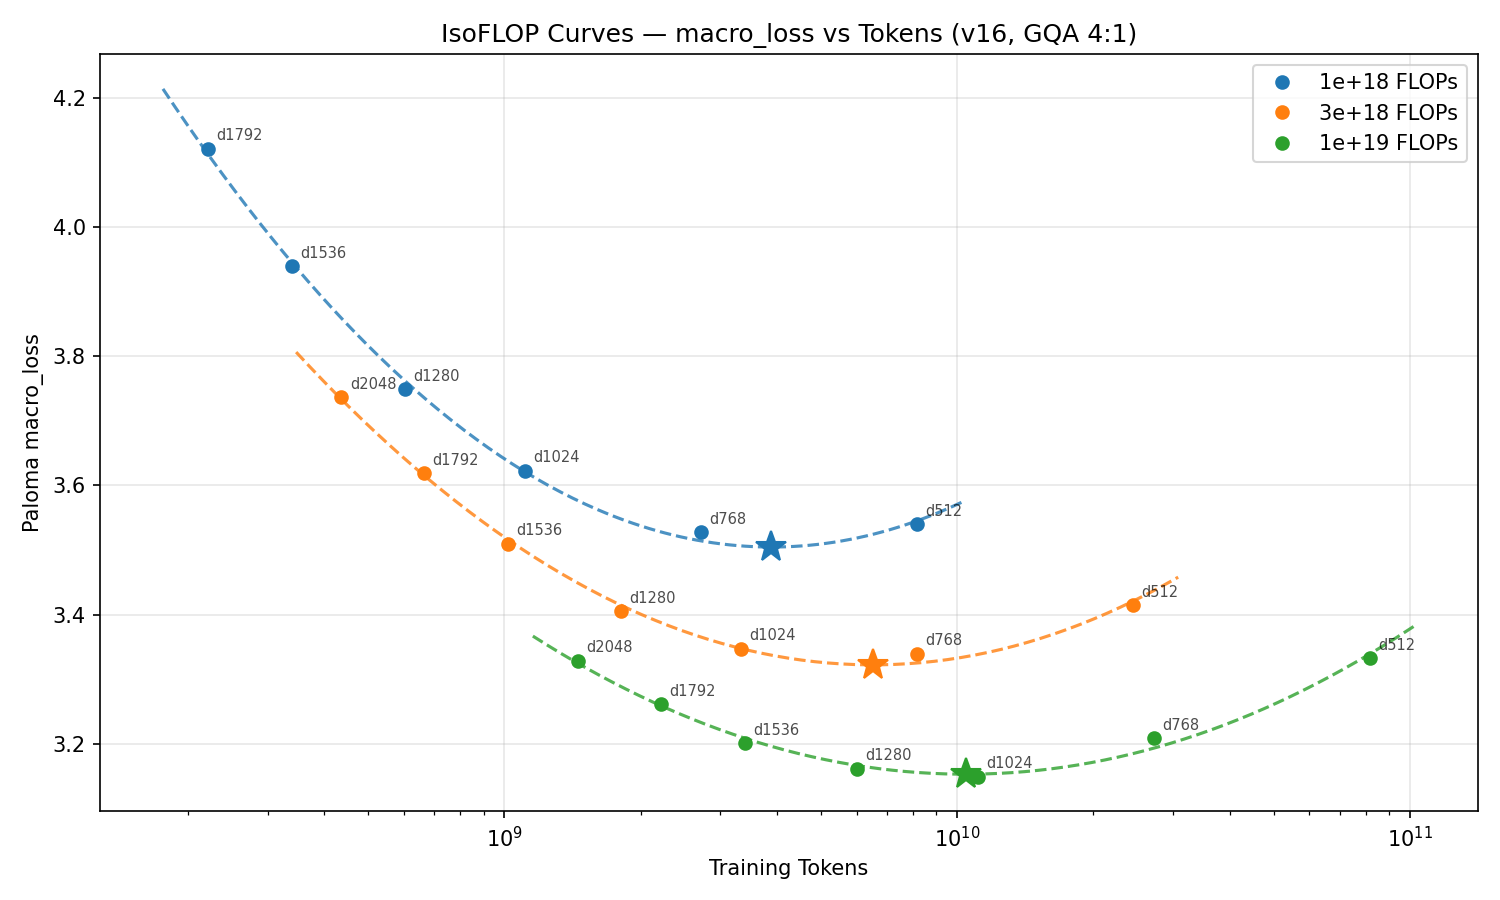
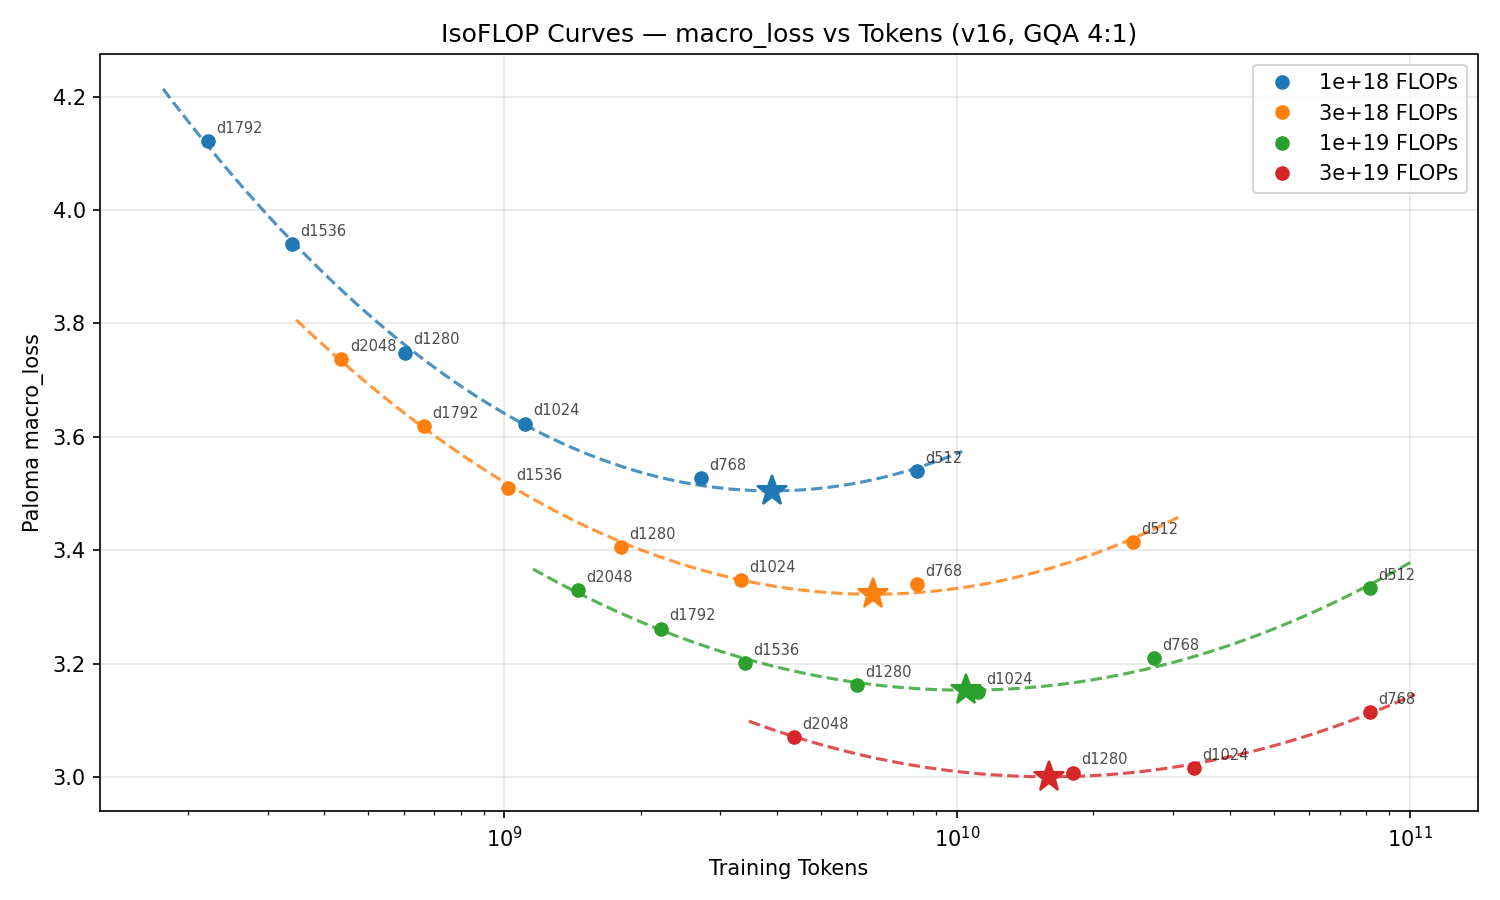
updating plots

diff --git a/experiments/grug/moe_apr2/new_plots/isoflop_curves.py b/experiments/grug/moe_apr2/new_plots/isoflop_curves.py
@@ -170,7 +170,7 @@ def main():
             continue
         by_budget.setdefault(r["budget"], []).append(r)
 
-    target_budgets = [1e18, 3e18, 1e19]
+    target_budgets = [1e18, 3e18, 1e19, 3e19]
     colors = {1e18: "C0", 3e18: "C1", 1e19: "C2", 3e19: "C3", 1e20: "C4"}
 
     # ---- Plot 1: IsoFLOP curves (BPB vs active params) ----
